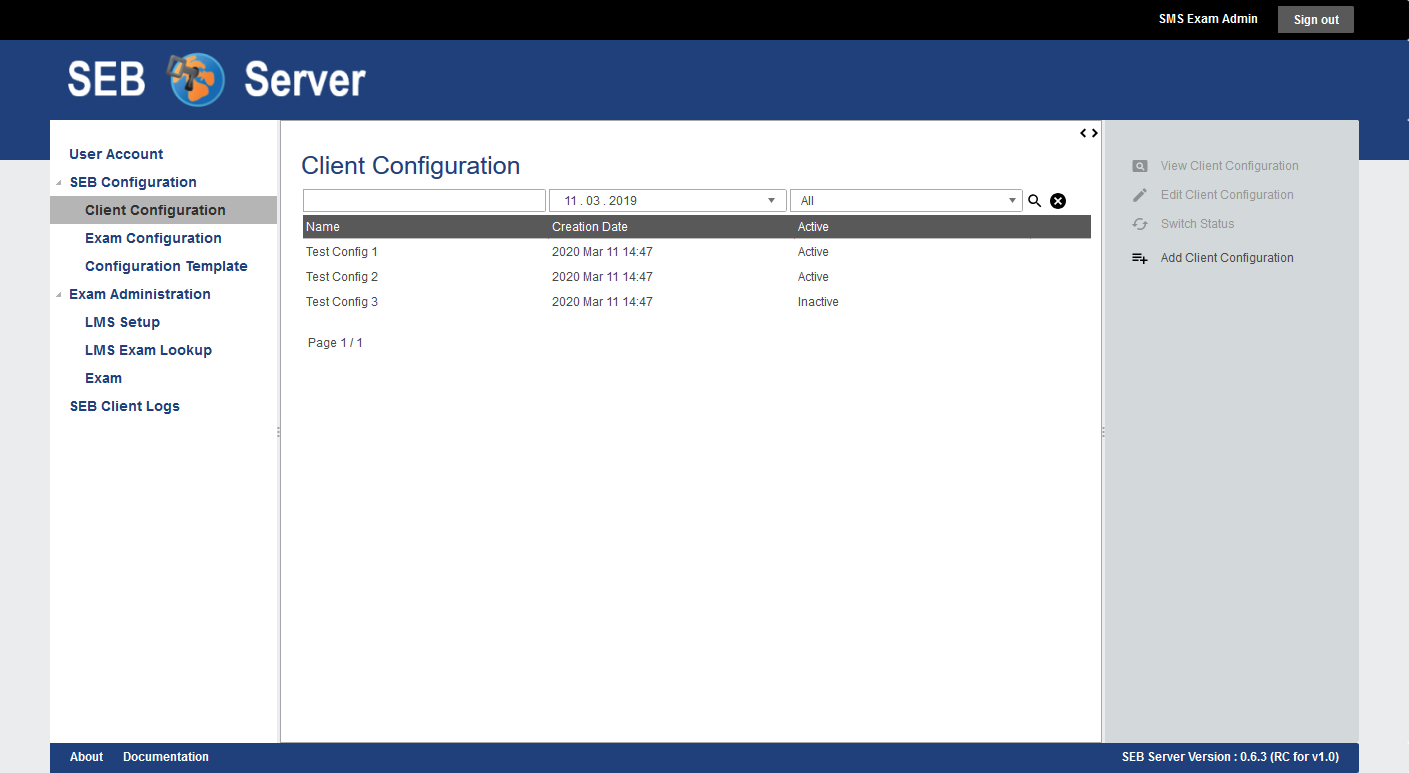
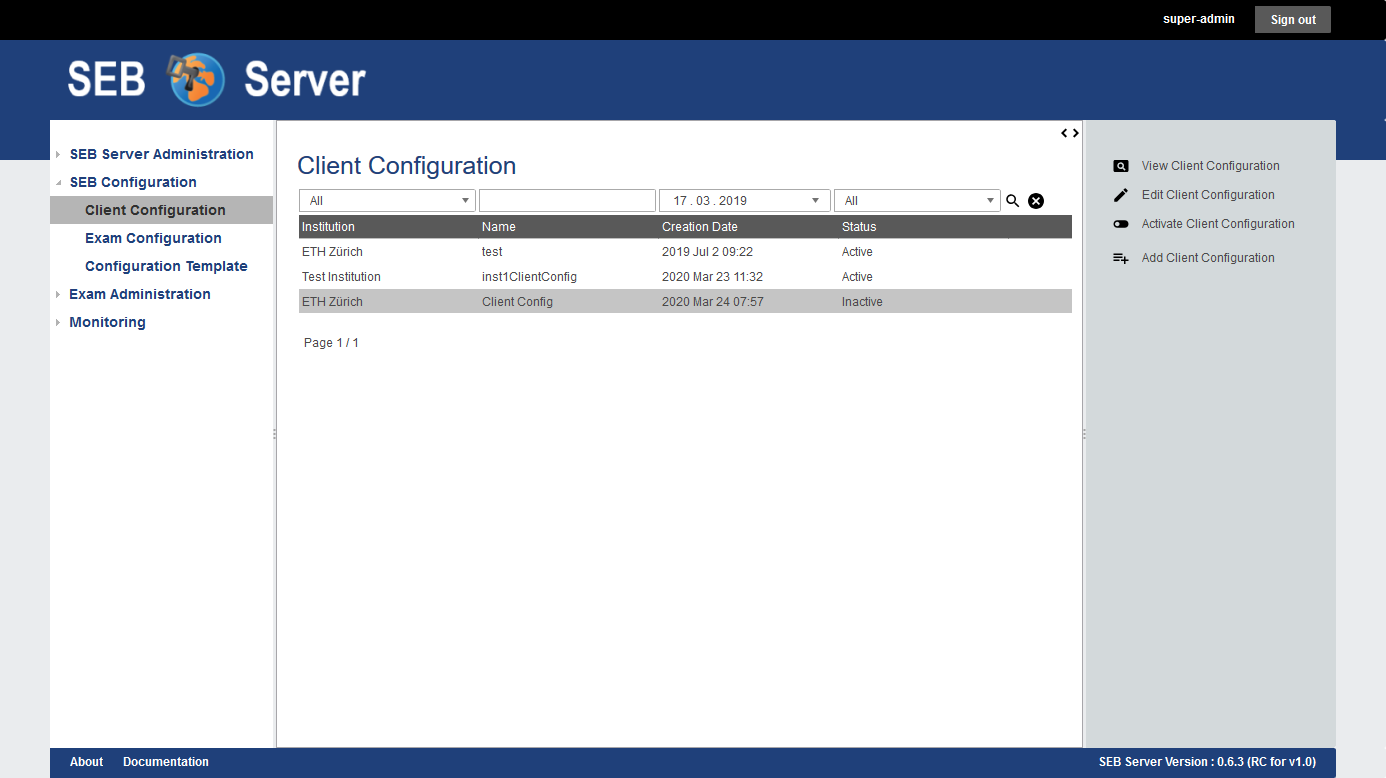
client configuration doku

diff --git a/docs/client_config.rst b/docs/client_config.rst
@@ -29,12 +29,39 @@ of the "Configuration" section on the menu on the left hand side.
 .. image:: images/client_config/list.png
     :align: center
     :target: https://raw.githubusercontent.com/SafeExamBrowser/seb-server/master/docs/images/client_config/list.png
+    
+The list shows the name, the date of creation and the status of the client configurations in a column. With SEB Server administrator role
+also an institution column is shown because a SEB Server administrator is able to see all client configurations of all institutions.
+As usual, to filter the list use the filter inputs above and click on the lens symbol on the right to apply the filter and to clear the 
+filter use the clear symbol right to the lens symbol. See :ref:`gui-label` for more information about the list navigation. 
+    
+The image below shows the Client Connection form in the edit mode. To view the fallback related attributes, check the "With Fallback" attribute
+or remove selection to hide all fallback related attributes.
+
+.. image:: images/client_config/new.png
+    :align: center
+    :target: https://raw.githubusercontent.com/SafeExamBrowser/seb-server/master/docs/images/client_config/new.png
+
+Short description of all attributes of a Client Configuration:
+
+- **Name**: The name of the Client Configuration used to maintain client configurations within the SEB Server application. 
+- **Configuration Purpose**: Defines the configuration purpose as described in `SEB Configuration <https://www.safeexambrowser.org/windows/win_usermanual_en.html#configuration>`_ section "Use SEB settings file for".
+  **Starting an Exam**; Will cause SEB to use this Client Configuration settings on startup but won't change local SEB settings.
+  **Configuring a Client**; Will cause SEB to use this Client Configuration settings and also save it as local SEB settings.
+- **Configuration Password**: Used to encrypt the Client Configuration with a password. A SEB client will prompt this password while loading a password protected Client Configuration.
+- **With Fallback**: Select this to see and define a fallback strategy for SEB clients using this Client Configuration in case of SEB Server service unavailability.
+- **Fallback URL**: Defines a start URL that is loaded by the SEB client in a fallback case.
+- **Connection Attempts**: Defines the number of attempts a SEB client will try to unsuccessfully connect to the SEB Server service until it switches to the fallback case.
+- **Interval**: Time interval (in milliseconds) a SEB client will wait after a unsuccessful connection attempt before starting a next connection attempt.
+- **Connection Timeout**: A overall timeout for SEB Server service connection. After this timeout runs out, starting from fist connection attempt, SEB client will switches to the fallback case no matter if number of attempts has exceeded or not.
+- **Fallback Password**: If set, a SEB client will prompt for this password before switching into the fallback case.
+- **Quit Password**: If set, a SEB client will prompt for this password when a user wants to exit SEB before in fallback case or before the SEB client has loaded an exam.
 
 A Client Configuration may also contain and define a fallback strategy that takes place when SEB Server service is not available while 
 a SEB client tries to connect to the SEB Server.
 
 .. note:: 
-    A fallback only comes on action when SEB client is within the connection process with the SEB Server and the SEB Server service is unavailable.
+    A fallback case only takes place when SEB client is within the connection process (handshake) with the SEB Server and the SEB Server service is unavailable.
     If a SEB client is already connected to the SEB Server and the user has started an exam, the SEB will just proceed with the exam even 
     when the SEB Server connection is (temporarily) unavailable.
     
@@ -57,35 +84,54 @@ configuration settings in the following ways:
 - Client Configuration with "Starting an Exam" setting and fallback strategy:
     Show warning with options "retry", "fallback" (load Fallback URL) and "quit".
 
-The image below shows the Client Connection form in the edit mode. To view the fallback related attributes, check the "With Fallback" attribute
-or remove selection to hide all fallback related attributes.
-
-.. image:: images/client_config/new.png
-    :align: center
-    :target: https://raw.githubusercontent.com/SafeExamBrowser/seb-server/master/docs/images/client_config/new.png
-
-Short description of all attributes of a Client Configuration:
-
-- Name: The name of the Client Configuration used to maintain client configurations within the SEB Server application. 
-- Configuration Purpose: Defines the configuration purpose as described in `SEB Configuration <https://www.safeexambrowser.org/windows/win_usermanual_en.html#configuration>`_ section "Use SEB settings file for".
-  Starting an Exam; Will cause SEB to use this Client Configuration settings on startup but won't change local SEB settings.
-  Configuring a Client; Will cause SEB to use this Client Configuration settings and also save it as local SEB settings.
-- Configuration Password: Used to encrypt the Client Configuration with a password. A SEB client will prompt this password while loading a password protected Client Configuration.
-- With Fallback: Select this to see and define a fallback strategy for SEB clients using this Client Configuration in case of SEB Server service unavailability.
-- Fallback URL: Defines a start URL that is loaded by the SEB client in a fallback case.
-- Connection Attempts: Defines the number of attempts a SEB client will try to unsuccessfully connect to the SEB Server service until it switches to the fallback case.
-- Interval: Time interval (in milliseconds) a SEB client will wait after a unsuccessful connection attempt before starting a next connection attempt.
-- Connection Timeout: A overall timeout for SEB Server service connection. After this timeout runs out, starting from fist connection attempt, SEB client will switches to the fallback case no matter if number of attempts has exceeded or not.
-- Fallback Password: If set, a SEB client will prompt for this password before switching into the fallback case.
-- Quit Password: If set, a SEB client will prompt for this password when a user wants to exit SEB before in fallback case or before the SEB client has loaded an exam.
 
 Use Cases
 ---------
 
 **Create Client Configuration**
 
-**Activate / Deactivate Client Configuration**
+As an Institutional Administrator one should create a new secure Client Configuration for the upcoming semester. The setup shall operate with
+secure configurations because the configuration file may be exposed to the public Internet. And the setup shall also have a proper fallback
+strategy where SEB clients uses the a given start URL in fallback case.
 
-**Create secure Client Configuration with fallback strategy**
+- Sign in as an Institutional Administrator and select the "Client Configuration" sub-menu of the "SEB Configuration" main-menu on the left.
+- Use the "Add Client Configuration" on the right action pane to create a new Client Configuration. 
+- Give the new Client Configuration a name that not already exists and select "Start an Exam" for "Configuration Purpose".
+  This will ensure that a SEB client that uses this configuration will not override the local configuration that then can be used on fallback. 
+- Give a password to ensure security and to encrypt the Client Configuration on export. A SEB client will prompt for the password while loading this configuration.
+- Check "With Fallback" to show all the fallback related attributes.
+- Define a fallback URL that will be used by a SEB client as start URL in the fallback case.
+- Define also fallback case, how many connection attempts on what interval a SEB client shall try before going into fallback mode. 
+  You can also define a overall "Connection Timeout" if lapsed a SEB client will also go into the fallback mode.
+  A SEB client will fall-back on either the attempt or the timeout trigger. 
+- When a SEB client goes to fallback mode it will prompt the user as described in the case list above. To prevent further fallback options
+  with a password prompt, give a "Fallback Password" and / or a "Quit Password" that a SEB client will prompt on either the fallback- or the
+  quit-option.
+- After all details are correctly been entered, use the "Save Client Configuration" action on the right action pane to save the new Client Configuration.
+- Now the new Client Configuration is created but not active for now and therefore cannot be exported yet. 
 
-**Export Client Configuration**
+**Activate and export Client Configuration**
+
+A Client Configuration for the upcoming semester has been created so far but was not active until now because of security reasons.
+Now we want to activate this Client Configuration and export it to make it accessible by a download link on a public server.
+
+- Sign in as an Institutional Administrator and select the "Client Configuration" sub-menu of the "SEB Configuration" main-menu on the left.
+- Use the list filter and / or the list navigation to find the needed Client Configuration.
+- Double-click on the list entry or use the "View Client Configuration" action on the right for a selected list row, to show the details of a 
+  specific Client configuration.
+- Then either on the list or in the view mode of the form, use the "Activate Client Configuration" action on the right action pane to activate the Client Configuration
+- Now there is a "Export Client Configuration" action in the detail view of the Client Configuration. Use the "Export Client Configuration" action
+  to start a download dialog. Choose "Save As" and download the file with the name "SEBClientSettings.seb".
+- This file can now be published as download-link within a public server where SEB user can click and start the download and startup of the SEB client automatically. 
+
+**Deactivate a Client Configuration**
+
+The semester has ended and for security reasons we don't want that SEB clients with a Client Configuration for the ended semester
+are able to connect to SEB Server anymore. For this we just have to deactivate the Client Configuration for that semester. A SEB client
+that connects with this Client Configuration will then receive an HTTP 401 Unauthorized response.
+
+- Sign in as an Institutional Administrator and select the "Client Configuration" sub-menu of the "SEB Configuration" main-menu on the left.
+- Use the list filter and / or the list navigation to find the needed Client Configuration and select the row of this Client Configuration.
+- Now use the "Deactivate Client Configuration" action from the right action pane to deactivate the Client Configuration.
+- The Client Configuration is now deactivates und SEB client using this Client Configuration are not able to connect to SEB Server anymore.
+

diff --git a/docs/overview.rst b/docs/overview.rst
@@ -103,6 +103,7 @@ On the current version, e-mail confirmation is not a feature of the SEB Server a
 
 With the "Time Zone" one can choose a specific time zone for an user-account. All dates and times will then be showed within this specific time zone to the user.
 
+.. _gui-label:
 
 Graphical User Interface
 ------------------------
